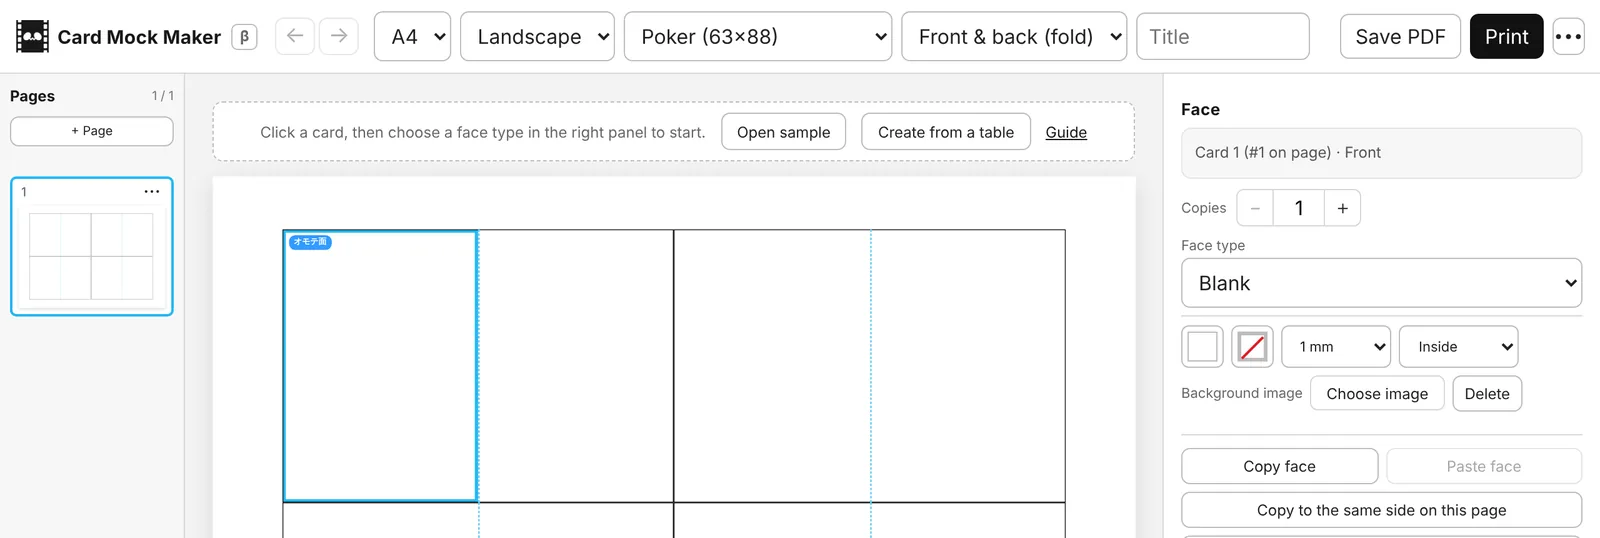
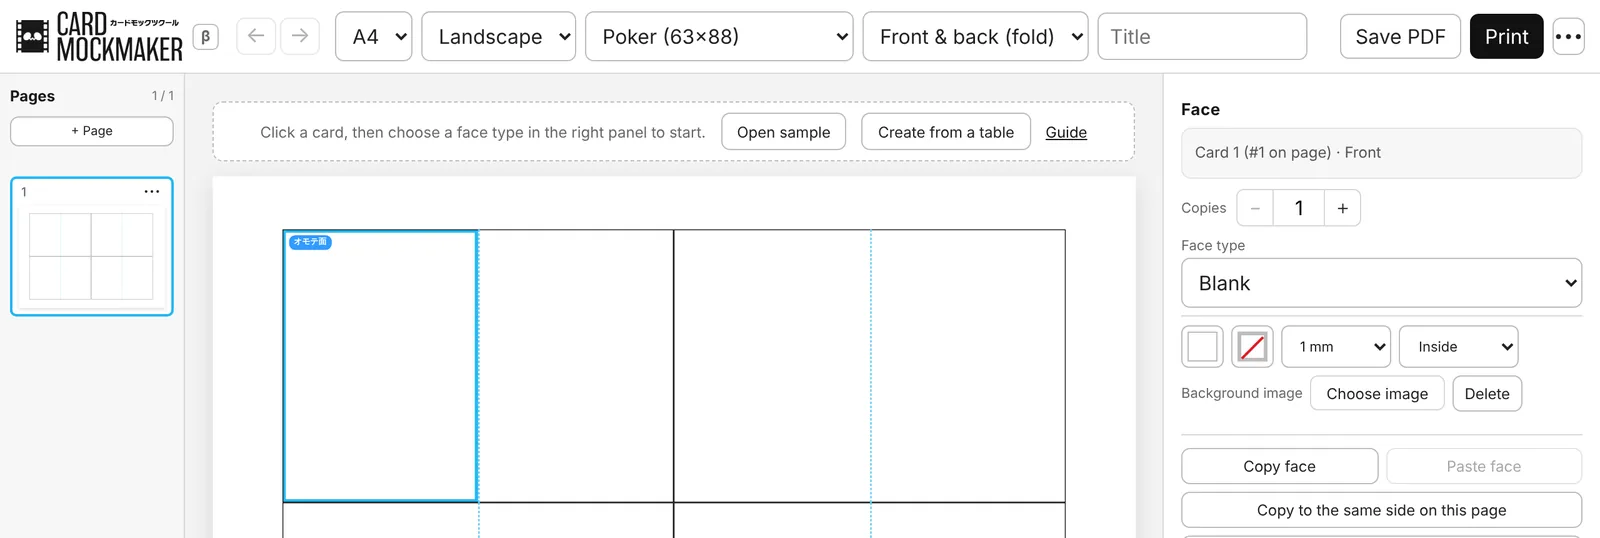
カードモックツクール(テスト版): 正式ロゴをヘッダーと使い方ページに、タブレット幅ではヘッダーを2段に
Claude-Session: https://claude.ai/code/session_01MypZ6bnFd6NWuA9aApFgtm

Changed region(s): [[0.0312, 0.0, 0.5, 0.119], [0.5312, 0.0, 0.75, 0.119]]

diff --git a/card-mock-maker-next/app.css b/card-mock-maker-next/app.css
@@ -2191,3 +2191,16 @@ header .app-brand{align-items:center}
 .empty-help{font-size:12px;color:var(--ink);text-decoration:underline}
 .m-help-link{display:block;margin:16px 0 4px;text-align:center;font-size:14px;font-weight:700;color:var(--ink)}
 @media print{.empty-help{display:none!important}}
+
+/* ---- ロゴ(正式ロゴ。色は文字色にそろえる) ---- */
[1 lines of base64/hex data omitted]
+@media(max-width:720px){.app-brand .app-logo{height:34px;width:85px}}
+.app-brand .brand-en{display:none!important}
+@media(max-width:1180px) and (min-width:721px){.app-brand .app-logo{height:34px;width:85px}}
+/* タブレット幅(721〜1023px):ヘッダーは2段に折り返す(横にはみ出して印刷ボタンが隠れないように)。
+   下の作業エリアの高さは、ヘッダーの実際の高さ(--hdr-h、app.jsで測る)から決める */
+@media(max-width:1023px) and (min-width:721px){
+  header{flex-wrap:wrap!important;overflow-x:visible!important;row-gap:6px!important;padding-top:6px!important;padding-bottom:6px!important}
+  header #sheetTitleInput{flex:1 1 140px;width:auto!important;min-width:120px}
+}
+@media(min-width:721px){.layout{height:calc(100vh - var(--hdr-h,58px))!important}.settings-pop{top:calc(var(--hdr-h,58px) - 2px)}}

diff --git a/card-mock-maker-next/guide/index.html b/card-mock-maker-next/guide/index.html
@@ -54,6 +54,9 @@
     .g-hero-in{position:relative;z-index:1;max-width:620px}
     .g-hero .en{padding-left:.34em;color:var(--accent);opacity:1}
     .g-hero h1{margin:14px 0 12px;font-size:clamp(30px,4.4vw,50px);line-height:1.22;letter-spacing:.02em;font-weight:900}
+    .g-title{display:flex;flex-direction:column;align-items:flex-start;gap:clamp(10px,1.4vw,16px)}
+    .g-logo{display:block;width:clamp(240px,30vw,400px);height:auto;color:#fff}
+    .g-howto{font-size:clamp(20px,2.2vw,26px);letter-spacing:.08em}
     .g-hero .lead{margin:0 0 26px;font-size:clamp(15px,1.6vw,18px);line-height:1.7;opacity:.92}
     .g-cta{display:flex;gap:12px;flex-wrap:wrap}
     .g-hero .beta{margin:20px 0 0;font-size:12px;opacity:.62}
@@ -209,6 +212,7 @@
       .site-footer{flex-direction:column;gap:8px}
       .g-hero{padding:44px 20px 40px}
       .g-hero h1{font-size:30px}
+      .g-logo{width:240px}
       .quick{grid-template-columns:minmax(0,1fr)}
       .toc ol{columns:1}
       .g-main{font-size:15px}
@@ -233,7 +237,7 @@
   <section class="g-hero">
     <div class="g-hero-in">
       <p class="en" aria-hidden="true">HOW TO USE</p>
-      <h1><span lang="ja">カードモックツクール<br>の使い方</span><span lang="en">How to use<br>Card Mock Maker</span></h1>
+      <h1 class="g-title"><svg class="g-logo" viewBox="0 0 3328 1332" role="img" aria-label="カードモックツクール Card Mock Maker"><path fill="currentColor" fill-rule="evenodd" d="M3042 697 3042 1316 3116 1316 3116 1053 3117 1052 3162 1052 3163 1053 3174 1053 3187 1056 3202 1064 3211 1073 3220 1089 3226 1109 3230 1137 3231 1170 3232 1171 3234 1276 3235 1277 3235 1297 3238 1315 3239 1316 3319 1316 3315 1302 3311 1270 3310 1239 3309 1238 3307 1122 3304 1096 3300 1078 3291 1057 3284 1047 3277 1040 3257 1028 3246 1024 3239 1023 3237 1021 3240 1018 3248 1016 3266 1007 3276 1000 3289 987 3297 976 3305 961 3313 938 3320 899 3321 868 3322 867 3322 839 3321 838 3320 816 3317 800 3307 769 3299 754 3290 741 3273 724 3260 715 3244 707 3229 702 3199 697ZM3117 757 3182 757 3203 763 3217 772 3228 784 3236 798 3242 815 3247 845 3248 873 3247 874 3246 905 3240 936 3232 957 3223 971 3210 984 3196 992 3187 995 3176 997 3117 997 3116 996 3116 758ZM2745 697 2745 1316 2977 1316 2977 1257 2820 1257 2819 1256 2819 1024 2820 1023 2954 1023 2954 964 2820 964 2819 963 2819 757 2820 756 2975 756 2975 697ZM2392 697 2392 1316 2466 1316 2466 1171 2545 1030 2547 1032 2618 1315 2619 1316 2696 1316 2591 942 2591 937 2691 697 2620 697 2470 1050 2466 1049 2466 697ZM2144 697 2142 703 2140 720 2135 743 2133 760 2128 783 2126 800 2121 823 2119 840 2117 846 2108 903 2106 909 2101 943 2099 949 2094 983 2092 989 2087 1023 2085 1029 2080 1063 2078 1069 2069 1126 2067 1132 2035 1316 2101 1316 2114 1225 2117 1214 2250 1214 2252 1217 2266 1315 2267 1316 2342 1316 2294 1040 2292 1034 2287 1000 2285 994 2280 960 2278 954 2273 920 2271 914 2269 897 2264 874 2258 834 2253 811 2251 794 2246 771 2244 754 2239 731 2234 697ZM2182 793 2185 794 2186 806 2240 1138 2240 1144 2242 1151 2241 1155 2126 1155 2125 1154 2150 997 2150 991 2153 978 2157 946 2160 933 2166 888 2169 875 2175 830 2178 817 2180 798ZM1564 697 1564 1316 1628 1316 1627 843 1630 842 1632 845 1747 1316 1797 1316 1912 859 1914 855 1917 840 1919 838 1922 839 1921 1316 1985 1316 1985 697 1885 697 1878 728 1871 753 1859 807 1777 1144 1773 1142 1663 697ZM1210 697 1210 1316 1284 1316 1284 1171 1363 1030 1365 1032 1436 1315 1437 1316 1514 1316 1409 942 1409 937 1509 697 1438 697 1288 1050 1284 1049 1284 697ZM6 697 6 1316 70 1316 69 843 72 842 74 845 189 1316 239 1316 354 859 356 855 359 840 361 838 364 839 363 1316 427 1316 427 697 327 697 320 728 313 753 301 807 219 1144 215 1142 105 697ZM1017 685 1016 686 991 687 968 692 952 698 930 711 913 727 902 742 894 757 886 779 882 797 879 820 879 1195 883 1223 892 1253 903 1274 913 1287 923 1297 940 1309 966 1320 997 1326 1039 1326 1054 1324 1074 1319 1096 1309 1110 1299 1120 1289 1130 1275 1141 1250 1146 1229 1148 1213 1148 1161 1145 1133 1143 1123 1086 1129 1090 1154 1090 1171 1091 1172 1090 1197 1088 1211 1085 1223 1079 1237 1070 1249 1060 1257 1052 1261 1036 1265 1013 1265 1002 1263 993 1260 979 1252 968 1241 964 1235 957 1220 953 1201 953 810 954 804 960 785 967 773 980 759 989 753 1001 748 1016 745 1034 745 1055 750 1065 756 1074 765 1081 777 1086 792 1090 824 1089 858 1086 881 1087 882 1144 885 1148 854 1148 797 1145 776 1138 752 1127 731 1111 713 1090 699 1072 692 1049 687ZM652 685 651 686 626 687 602 692 585 698 560 712 547 723 535 737 523 757 515 778 510 800 508 816 508 1198 511 1219 515 1235 521 1251 530 1268 538 1279 555 1296 566 1304 585 1314 610 1322 634 1326 676 1326 700 1322 719 1316 738 1307 755 1295 768 1282 780 1265 790 1244 796 1224 800 1198 800 815 796 788 788 762 773 735 754 715 738 704 726 698 709 692 677 686ZM643 747 665 747 678 750 689 755 698 761 708 771 718 787 724 806 726 825 726 1188 725 1189 725 1202 719 1225 710 1241 693 1257 681 1263 664 1267 647 1267 635 1265 626 1262 609 1252 594 1235 588 1223 582 1199 582 813 588 789 597 773 610 760 624 752ZM2878 286 2878 318 3037 318 3037 286ZM1602 286 1602 318 1761 318 1761 286ZM2149 255 2162 304 2166 325 2198 325 2198 320 2188 279 2180 255ZM2293 255 2259 255 2259 277 2257 293 2251 315 2246 324 2236 281 2227 254 2196 254 2207 295 2212 323 2213 324 2245 324 2246 325 2241 332 2230 343 2223 348 2204 357 2181 363 2181 393 2202 390 2227 382 2250 369 2266 354 2277 338 2288 310 2293 281ZM2669 235 2633 235 2633 255 2630 281 2625 300 2618 315 2612 324 2599 337 2587 345 2569 353 2542 360 2542 392 2548 392 2568 388 2597 378 2622 363 2641 344 2649 332 2657 316 2663 298 2669 262ZM2505 235 2516 275 2524 313 2558 313 2553 286 2539 236 2538 235ZM2854 234 2725 234 2722 248 2713 266 2700 281 2690 288 2690 323 2710 314 2724 304 2741 285 2752 265 2817 265 2818 268 2814 287 2809 301 2797 322 2788 332 2771 345 2759 351 2737 358 2716 361 2716 392 2754 387 2783 377 2807 362 2824 345 2838 323 2848 296 2854 262ZM2484 234 2355 234 2352 248 2343 266 2330 281 2320 288 2320 323 2340 314 2354 304 2371 285 2382 265 2447 265 2448 268 2444 287 2439 301 2427 322 2418 332 2401 345 2389 351 2367 358 2346 361 2346 392 2384 387 2413 377 2437 362 2454 345 2468 323 2478 296 2484 262ZM2560 233 2574 287 2578 311 2613 311 2603 266 2593 233ZM1970 233 1970 263 2005 263 2006 264 2006 287 2005 288 1962 288 1962 319 2005 319 2006 320 2006 356 2008 367 2014 378 2021 384 2036 389 2122 389 2122 359 2053 358 2048 356 2043 351 2041 339 2041 320 2042 319 2129 319 2129 288 2042 288 2041 287 2041 264 2042 263 2121 263 2121 233ZM1906 232 1906 259 1927 259 1927 232ZM1879 232 1879 259 1900 259 1900 232ZM3160 231 3127 231 3127 392 3142 391 3161 387 3176 381 3190 372 3203 359 3211 347 3217 334 3222 317 3225 298 3225 282 3192 282 3191 300 3184 324 3175 339 3166 347 3162 349 3160 348ZM3111 231 3078 231 3078 282 3077 283 3076 314 3071 334 3065 346 3055 357 3055 396 3069 388 3085 374 3095 360 3102 345 3106 332 3110 308ZM1798 227 1798 394 1833 394 1833 313 1834 312 1940 334 1940 300 1939 299 1883 287 1835 279 1833 277 1833 227ZM1413 255 1413 286 1457 286 1458 287 1458 294 1455 308 1446 328 1441 335 1426 350 1413 358 1413 391 1417 391 1425 388 1442 379 1455 369 1468 355 1476 343 1485 324 1490 306 1493 286 1534 286 1535 287 1535 347 1533 352 1528 357 1525 358 1491 359 1491 390 1540 389 1548 387 1556 383 1563 376 1567 369 1570 358 1570 255 1494 255 1493 254 1493 227 1458 227 1458 254 1457 255ZM1006 16 1006 635 1178 635 1206 631 1229 624 1240 619 1257 608 1275 589 1281 580 1290 560 1294 546 1298 521 1298 140 1294 112 1287 88 1279 71 1264 51 1254 42 1230 28 1209 21 1178 16ZM1081 75 1159 75 1171 77 1183 81 1194 87 1208 101 1217 118 1222 137 1223 160 1224 161 1224 489 1223 490 1223 505 1221 517 1216 533 1211 543 1203 554 1193 563 1185 568 1163 575 1154 576 1081 576 1080 575 1080 76ZM661 16 661 635 735 635 735 372 736 371 781 371 782 372 793 372 806 375 821 383 830 392 839 408 845 428 849 456 850 489 851 490 853 595 854 596 854 616 857 634 858 635 938 635 934 621 930 589 929 558 928 557 926 441 923 415 919 397 910 376 903 366 896 359 876 347 865 343 858 342 856 340 859 337 867 335 885 326 895 319 908 306 916 295 924 280 932 257 939 218 940 187 941 186 941 158 940 157 939 135 936 119 926 88 918 73 909 60 892 43 879 34 863 26 848 21 818 16ZM736 76 801 76 822 82 836 91 847 103 855 117 861 134 866 164 867 192 866 193 865 224 859 255 851 276 842 290 829 303 815 311 806 314 795 316 736 316 735 315 735 77ZM413 16 411 22 409 39 404 62 402 79 397 102 395 119 390 142 388 159 386 165 377 222 375 228 370 262 368 268 363 302 361 308 356 342 354 348 349 382 347 388 338 445 336 451 304 635 370 635 383 544 386 533 519 533 521 536 535 634 536 635 611 635 563 359 561 353 556 319 554 313 549 279 547 273 542 239 540 233 538 216 533 193 527 153 522 130 520 113 515 90 513 73 508 50 503 16ZM451 112 454 113 455 125 509 457 509 463 511 470 510 474 395 474 394 473 419 316 419 310 422 297 426 265 429 252 435 207 438 194 444 149 447 136 449 117ZM142 4 141 5 116 6 93 11 77 17 55 30 38 46 27 61 19 76 11 98 7 116 4 139 4 514 8 542 17 572 28 593 38 606 48 616 65 628 91 639 122 645 164 645 179 643 199 638 221 628 235 618 245 608 255 594 266 569 271 548 273 532 273 480 270 452 268 442 211 448 215 473 215 490 216 491 215 516 213 530 210 542 204 556 195 568 185 576 177 580 161 584 138 584 127 582 118 579 104 571 93 560 89 554 82 539 78 520 78 129 79 123 85 104 92 92 105 78 114 72 126 67 141 64 159 64 180 69 190 75 199 84 206 96 211 111 215 143 214 177 211 200 212 201 269 204 273 173 273 116 270 95 263 71 252 50 236 32 215 18 197 11 174 6Z"/></svg><span class="g-howto"><span lang="ja">使い方ガイド</span><span lang="en">User guide</span></span></h1>
       <p class="lead" lang="ja">カードゲームの試作を、ブラウザだけで作って印刷。</p><p class="lead" lang="en">Build and print card game prototypes, right in your browser.</p>
       <div class="g-cta"><a class="btn primary" href="../"><span lang="ja">ツールを開く</span><span lang="en">Open the tool</span><span aria-hidden="true"> →</span></a><a class="btn" href="#start"><span lang="ja">はじめに</span><span lang="en">Getting started</span></a></div>
       <p class="beta" lang="ja">改良テスト版（β）の使い方です。画面や機能は変わることがあります。</p><p class="beta" lang="en">This guide is for the test build (β). Screens and features may change.</p>
@@ -540,7 +544,7 @@
     <p lang="ja"><b class="ui">•••</b>の<b class="ui">画像で書き出す</b>で、カードを1枚ずつPNG画像にして、ZIPファイルにまとめて保存します。ほかのツールで使ったり、紹介画像にしたりできます。</p><p lang="en"><b class="ui">Export images</b> in the <b class="ui">•••</b> menu saves each card as a PNG image, together in a ZIP file. Use them in other tools or to show off your cards.</p>
     <ul lang="ja"><li><b class="ui">書き出す面</b>：<b class="ui">オモテ面</b>・<b class="ui">ウラ面</b>・<b class="ui">オモテ面とウラ面</b>から選べます（片面のときはオモテ面だけ）。</li><li><b class="ui">解像度</b>：150 dpi か 300 dpi。印刷に使うなら300 dpiがおすすめです。</li><li>同じカードは1つにまとめ、ファイル名に「_x3」のように枚数が入ります。空のカードは書き出しません。</li></ul><ul lang="en"><li><b class="ui">Sides</b>: <b class="ui">Front</b>, <b class="ui">Back</b> or <b class="ui">Front and back</b> (front only for single-sided).</li><li><b class="ui">Resolution</b>: 150 or 300 dpi. Use 300 dpi if you'll print them.</li><li>Copies are exported once, with the count in the file name, like “_x3”. Empty cards are skipped.</li></ul>
   </div>
-  <figure class="shot "><img style="max-width:420px" lang="ja" src="img/export-ja.webp?v=20261026" width="1000" height="631" alt="画像で書き出す" loading="lazy" decoding="async"><img style="max-width:420px" lang="en" src="img/export-en.webp?v=20261026" width="1000" height="654" alt="Export images" loading="lazy" decoding="async"><figcaption><span lang="ja">画像で書き出す</span><span lang="en">Export images</span></figcaption></figure>
+  <figure class="shot "><img style="max-width:420px" lang="ja" src="img/export-ja.webp?v=20261026" width="1000" height="429" alt="画像で書き出す" loading="lazy" decoding="async"><img style="max-width:420px" lang="en" src="img/export-en.webp?v=20261026" width="1000" height="429" alt="Export images" loading="lazy" decoding="async"><figcaption><span lang="ja">画像で書き出す</span><span lang="en">Export images</span></figcaption></figure>
 </div>
 
 </section>

diff --git a/card-mock-maker-next/app.js b/card-mock-maker-next/app.js
@@ -2551,6 +2551,8 @@ el("printBtn").addEventListener("click",async()=>{const b=el("printBtn"),t=b.tex
 
 
 
+/* ヘッダーの高さ(タブレット幅で2段になる)を、下の作業エリアの高さの計算に使う */
+{const hd=document.querySelector("header"),setH=()=>document.documentElement.style.setProperty("--hdr-h",hd.offsetHeight+"px");setH();if(window.ResizeObserver)new ResizeObserver(()=>{setH();fitPaper()}).observe(hd);}
 cardOrientation=(el("paperOrientation").value==="portrait")?"landscape":"portrait";
 startDeck();
 setPaper();renderSheet();syncControls();

diff --git a/card-mock-maker-next/index.html b/card-mock-maker-next/index.html
@@ -22,7 +22,7 @@
 <header>
   <div class="app-brand">
     <a class="pk-home" href="/" title="パンダキネマのサイトへ" aria-label="パンダキネマのサイトへ"><i aria-hidden="true"></i></a>
-    <strong>カードモックツクール</strong>
+    <span class="app-logo" role="img" aria-label="カードモックツクール"></span>
     <span class="beta-badge">β</span>
     <span class="brand-en">Card Mock Maker</span>
   </div>
